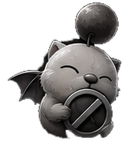
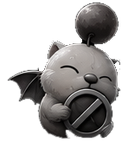
Auto lot moogle: gold pom-pom and gold wing, no animation (the wing beat removed); the dark shadow left round the heads (lot, pass, off) cleaned off

diff --git a/README.md b/README.md
@@ -24,7 +24,7 @@ It's always off when you log in. Only the moogle's place and size are saved.
 
 A small moogle always stays on screen, so you can see at a glance what's on:
 
-- **Holding a gold coin, with a gold wing:** Auto lot is on. The wing beats slowly, and each beat leaves a tiny trail of gold dust.
+- **Gold pom-pom, gold wing and a gold coin:** Auto lot is on.
 - **Holding a red X:** Auto pass is on.
 - **Grey:** off.
 
